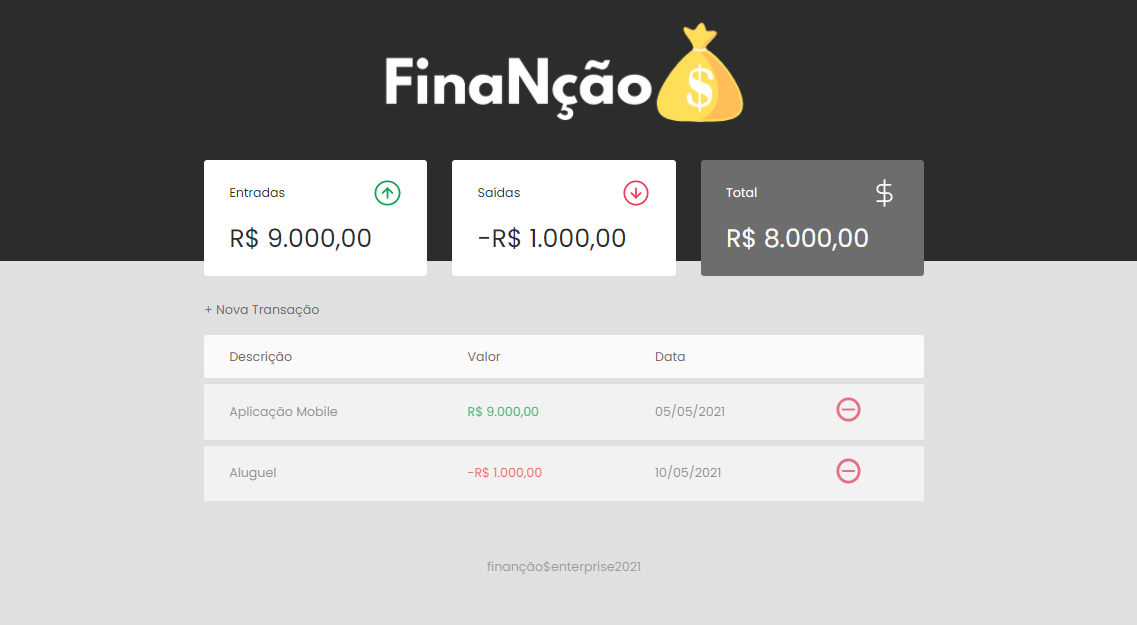
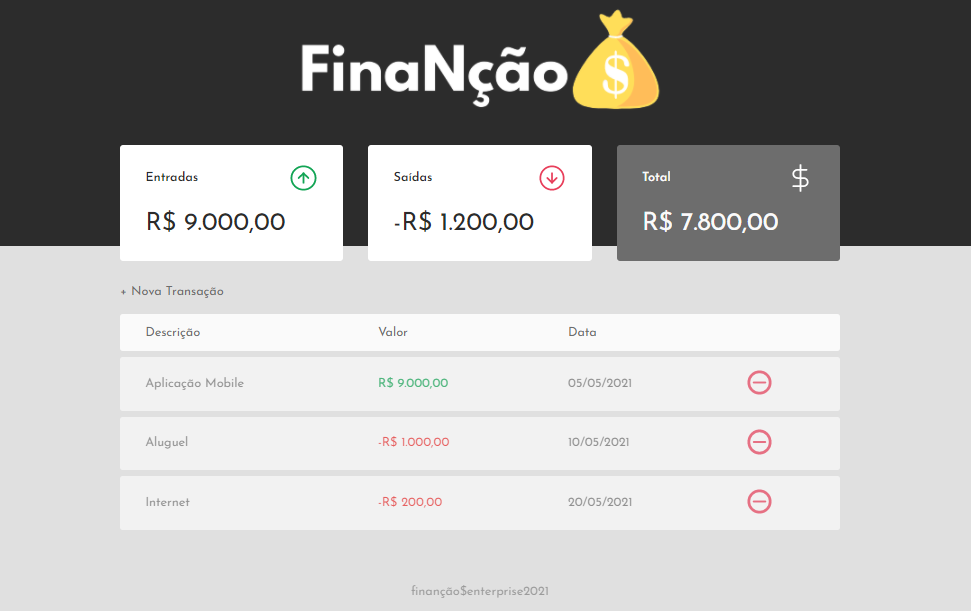
Finished

diff --git a/index.html b/index.html
@@ -7,9 +7,10 @@
     <title>FinaNção$</title>
 
     <link rel="stylesheet" href="./styles.css">
-    <link rel="preconnect" href="https://fonts.gstatic.com">
-    <link
-        href="https://fonts.googleapis.com/css2?family=Poppins:ital,wght@0,100;0,400;0,700;1,100;1,400;1,700&display=swap"
+
+    <link rel="preconnect" href="https://fonts.googleapis.com">
+    <link rel="preconnect" href="https://fonts.gstatic.com" crossorigin>
+    <link href="https://fonts.googleapis.com/css2?family=Josefin+Sans:wght@300;400;500;600&display=swap"
         rel="stylesheet">
 </head>
 

diff --git a/styles.css b/styles.css
@@ -20,7 +20,7 @@ html {
 
 body {
     background: var(--gray-light);
-    font-family:'Poppins', sans-serif
+    font-family: 'Josefin Sans', sans-serif;
 }
 
 .sr-only {
@@ -111,7 +111,7 @@ header {
 
 #logo {
     color: #fff;
-    font-weight: 100;
+    font-weight: 300;
 }
 
 /* Balance ===================== */
@@ -136,7 +136,7 @@ header {
 }
 
 .card h3 {
-    font-weight: normal;
+    font-weight: 700;
     font-size: 1rem;
 
     display: flex;
